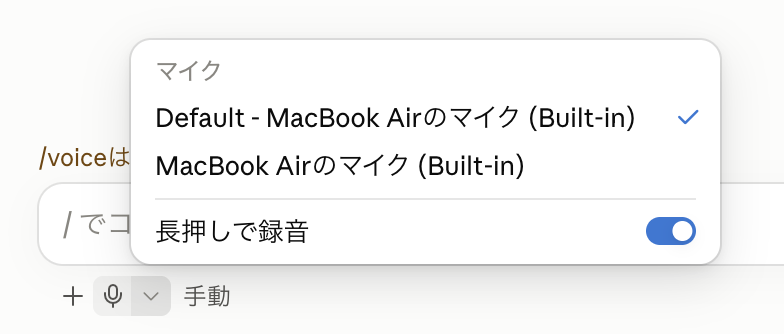
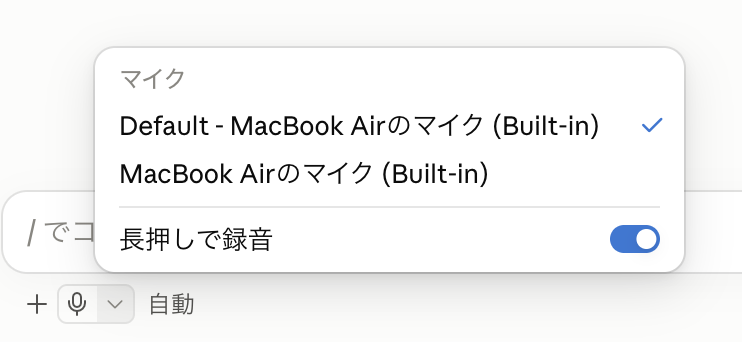
session1-app: プライバシー設定の TIPS を管理側の一括管理に合わせ、voice-menu.png を差し替え
- 3-3: 学習のオプトアウトは管理側で一括管理されていて、アプリに変更する項目が無いことを明記
- 3-4: voice-menu.png を写り込みのない画像に差し替え

diff --git a/session1-app.html b/session1-app.html
@@ -499,11 +499,8 @@
 
       <div class="callout tip">
         <strong>💡 TIPS：プライバシー設定（Pro / Max プラン加入者）</strong>
-        講師が説明する CLI の <code class="inline">/privacy-settings</code> にあたる設定は、アプリでは <strong>設定画面の「プライバシー」</strong> で確認する。ここで <strong>会話データをモデルの学習（トレーニング）に使わせないようにオプトアウト</strong> できる。業務のファイルを扱うなら、まずこの設定を見直しておくと安心。
-        <ul style="margin:8px 0 0;padding-left:20px;">
-          <li>学習をオフにすると、データ保持期間も短くなる</li>
-          <li>ウェブからも変更可能：<code class="inline">https://claude.ai/settings/data-privacy-controls</code></li>
-        </ul>
+        講師が説明するのは、CLI の <code class="inline">/privacy-settings</code> で <strong>会話データをモデルの学習（トレーニング）に使わせないようにオプトアウト</strong> する設定（学習をオフにするとデータ保持期間も短くなり、ウェブの <code class="inline">https://claude.ai/settings/data-privacy-controls</code> からも変更できる）。
+        本コースで使うアカウントは、この設定を管理側がまとめて管理している。アプリの設定画面に「プライバシー」のメニューはあるが、学習のオプトアウトを自分で変更する項目は無いので、設定する必要はない。
       </div>
 
       <div class="exercise">
@@ -555,7 +552,7 @@
         </figure>
         マイク横の <code class="inline">▾</code> では、使うマイクの選択と「長押しで録音」のオン／オフを切り替えられる。CLI の <code class="inline">/voice tap</code> や autoSubmit 設定による自動送信にあたる設定は、このメニューには無い。
         <figure class="shot" style="margin:12px 0 0;">
-          <img src="Image/session1-app/voice-menu.png" alt="マイクの選択と「長押しで録音」の切り替えメニュー" style="max-width: 400px">
+          <img src="Image/session1-app/voice-menu.png" alt="マイクの選択と「長押しで録音」の切り替えメニュー" style="max-width: 380px">
         </figure>
         音声（Voice）で指示すると、聞き取りミスや言い間違いが <strong>そのまま指示になる</strong>。「消して」「戻して」が誤認識されれば、「自動」（Auto）や「編集を受け入れる」（Accept Edits）では確認なしにファイル削除や <code class="inline">git reset</code> が走りうる。音声で操作するときは入力欄左下のモード表示から <strong>「手動」（Default）か「プラン」（Plan Mode）に切り替え</strong>、文字起こしされた指示と承認ダイアログを目で確認してから許可する。長めの依頼は「プラン」で計画だけ出させ、内容を確認してから解除して実行するのが安全。
       </div>
